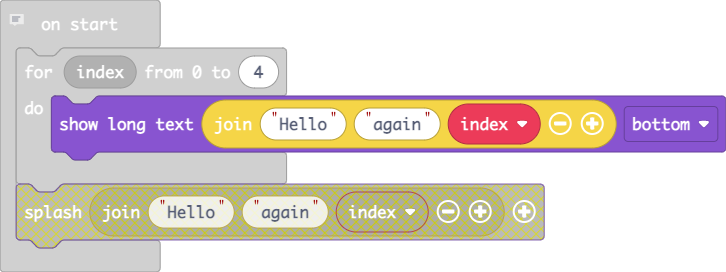
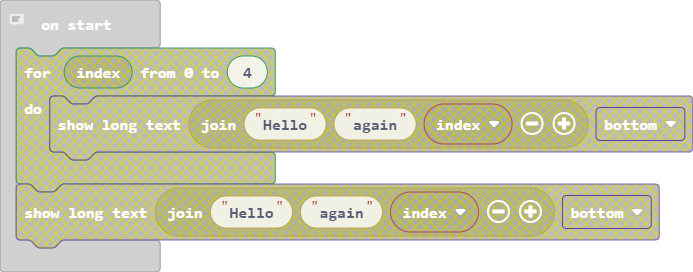
Update main.blocks, main.ts

diff --git a/main.ts b/main.ts
@@ -1,4 +1,1 @@
 // Make sure to read all the requirements & add comments to your code!
-for (let index = 0; index <= 4; index++) {
-    game.showLongText("Hello" + "again" + index, DialogLayout.Bottom)
-}
